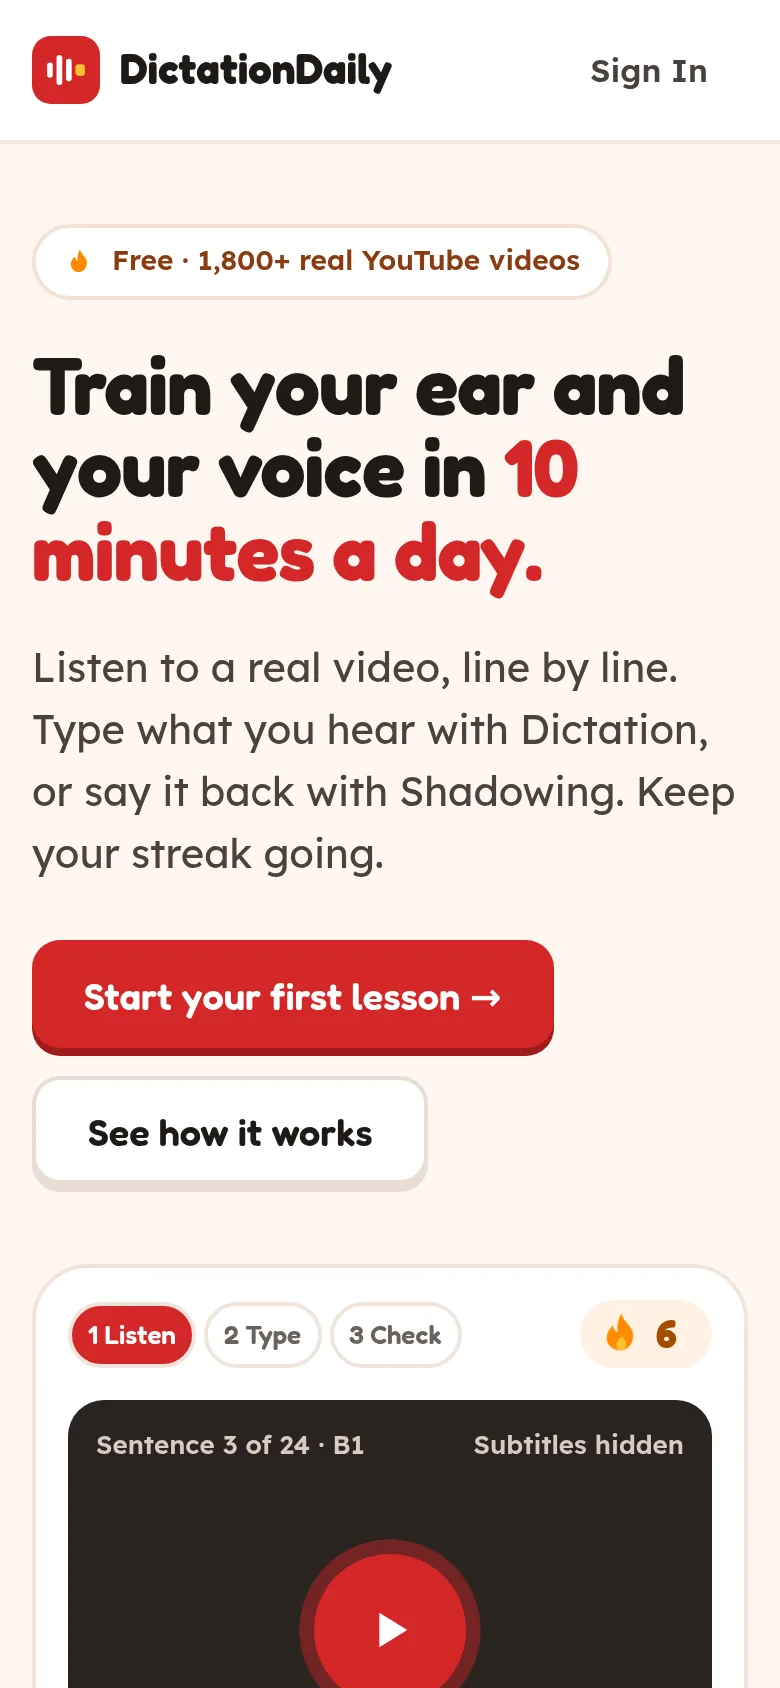
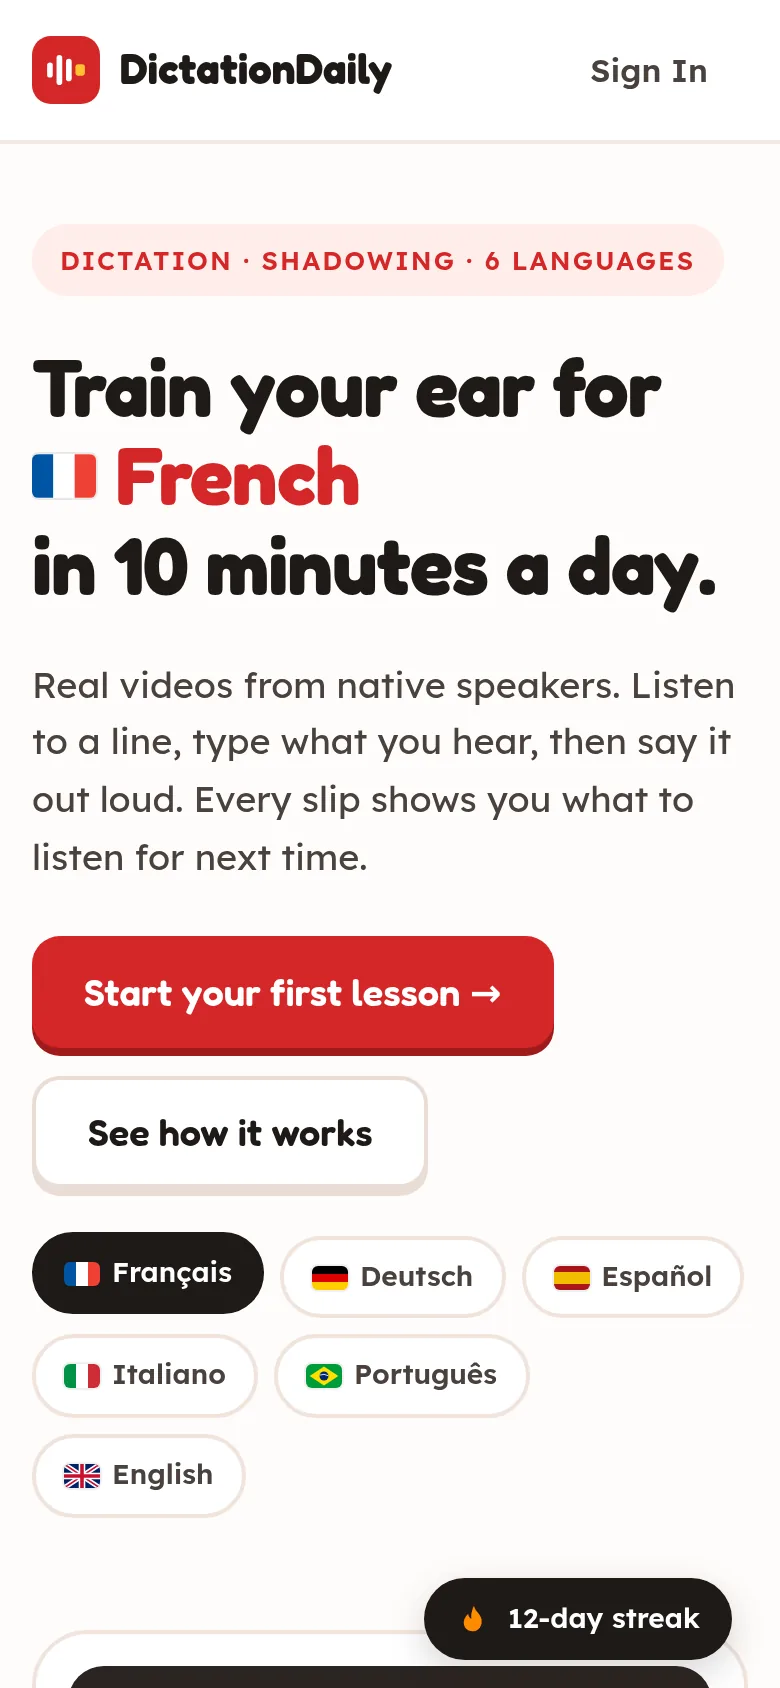
Retake the home page shots after the landing redesign
home-hero, home-goal and mobile-home show the new landing page with the
language reel. The hero is taken with reduced motion so it holds still
on French with the line checked, and the goal shot is a normal screen
scrolled to the streak band (the full-page clip put the sticky header
in the middle). The quick-start and save-progress steps point at the
moved Start and Sign In buttons.

diff --git a/src/pages/quick-start.html b/src/pages/quick-start.html
@@ -3,7 +3,7 @@
 
 <h2>Step by step</h2>
 <tour>
-    <step img="home-hero" x="18.2" y="60.9" title="Open the videos">Go to <a href="https://dictationdaily.com">dictationdaily.com</a> and press <strong>Start your first lesson</strong>. The first time, it asks which language you want to learn.</step>
+    <step img="home-hero" x="17.4" y="61.6" title="Open the videos">Go to <a href="https://dictationdaily.com">dictationdaily.com</a> and press <strong>Start your first lesson</strong>. The first time, it asks which language you want to learn.</step>
     <step img="library" box="7,39.6,20.4,23.8" x="17.1" y="58.8" title="Choose a video">Click any video. Short ones are best to start.</step>
     <step img="lesson-intro" at="start" title="Press START">The first sentence plays.</step>
     <step img="lesson-clip-playing" x="70.8" y="44.5" title="Listen">The first and last words are already there. The red line fills while the missing words play.</step>

diff --git a/src/pages/save-progress.html b/src/pages/save-progress.html
@@ -7,7 +7,7 @@
 
 <h2>Sign in</h2>
 <tour>
-    <step img="home-hero" x="78.8" y="3.8" title="Click Sign In">It's at the top right of every page.</step>
+    <step img="home-hero" x="78.3" y="3.9" title="Click Sign In">It's at the top right of every page.</step>
     <step img="google-signin" box="37.1,41.8,25.6,4.3" x="50" y="45.8" title="Choose your Google account">There's no new password to remember.</step>
     <step img="signed-in-library" x="91.7" y="3.3" title="Done!">Your picture is at the top right. Next to it: your streak 🔥 and today's goal.</step>
 </tour>

diff --git a/scripts/capture.py b/scripts/capture.py
@@ -117,18 +117,22 @@ with sync_playwright() as p:
     ctx = browser.new_context(viewport={'width': 1440, 'height': 900})
     page = ctx.new_page()
 
+    # The home page's hero spins and types on its own; with less motion asked
+    # for it holds still on its last frame (French, line checked)
+    still = {'reduced_motion': 'reduce'}
+
     if wants('home'):
-        page.goto(B + '/', wait_until='load')
-        page.get_by_text('Sign In', exact=True).first.wait_for(timeout=15000)
-        page.wait_for_timeout(2500)
-        shot(page, 'home-hero')
-        # the daily goal picker on the dark "daily habit" band
-        goal = page.get_by_role('radio', name=re.compile('^10 min'))
-        goal.scroll_into_view_if_needed()
-        page.wait_for_timeout(1500)
-        y = goal.bounding_box()['y'] + page.evaluate('window.scrollY') - 450
-        shot(page, 'home-goal', full_page=True,
-             clip={'x': 0, 'y': y, 'width': 1440, 'height': 900})
+        hp = browser.new_context(viewport={'width': 1440, 'height': 900}, **still).new_page()
+        hp.goto(B + '/', wait_until='load')
+        hp.get_by_text('Sign In', exact=True).first.wait_for(timeout=15000)
+        hp.wait_for_timeout(2500)
+        shot(hp, 'home-hero')
+        # the daily goal picker on the streak band, scrolled to the middle of
+        # the screen (a full-page clip would show the sticky header mid-shot)
+        goal = hp.get_by_role('radio', name=re.compile('^10 min'))
+        goal.evaluate("el => el.scrollIntoView({block: 'center'})")
+        hp.wait_for_timeout(1500)
+        shot(hp, 'home-goal')
 
     if wants('library'):
         library(page)
@@ -269,9 +273,11 @@ with sync_playwright() as p:
         m = browser.new_context(viewport={'width': 390, 'height': 844}, is_mobile=True,
                                 has_touch=True, device_scale_factor=2)
         mp = m.new_page()
-        mp.goto(B + '/', wait_until='load')
-        mp.wait_for_timeout(3000)
-        shot(mp, 'mobile-home')
+        mh = browser.new_context(viewport={'width': 390, 'height': 844}, is_mobile=True,
+                                 has_touch=True, device_scale_factor=2, **still).new_page()
+        mh.goto(B + '/', wait_until='load')
+        mh.wait_for_timeout(3000)
+        shot(mh, 'mobile-home')
         library(mp)
         shot(mp, 'mobile-library')
         open_lesson(mp)
